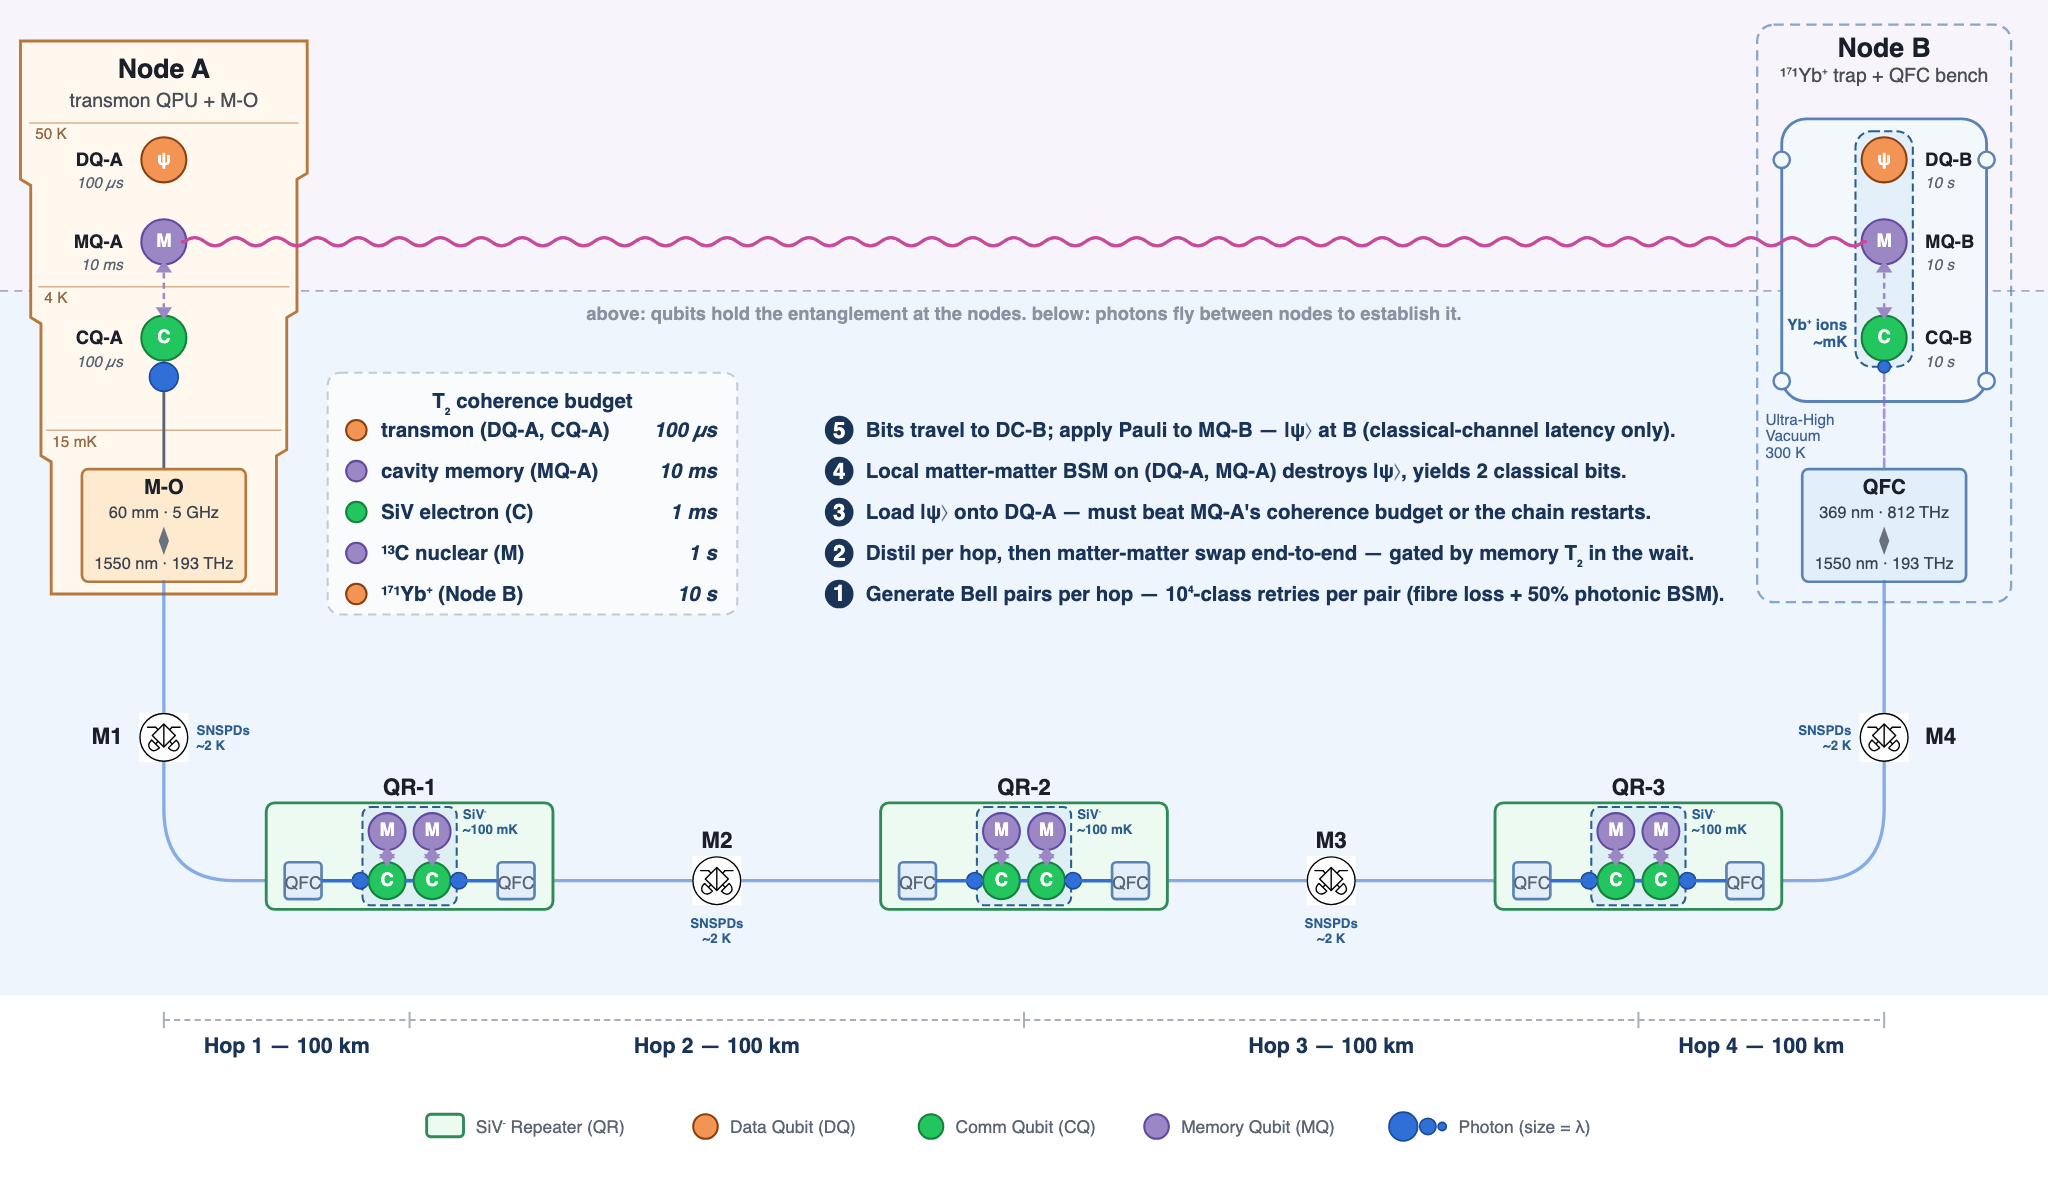
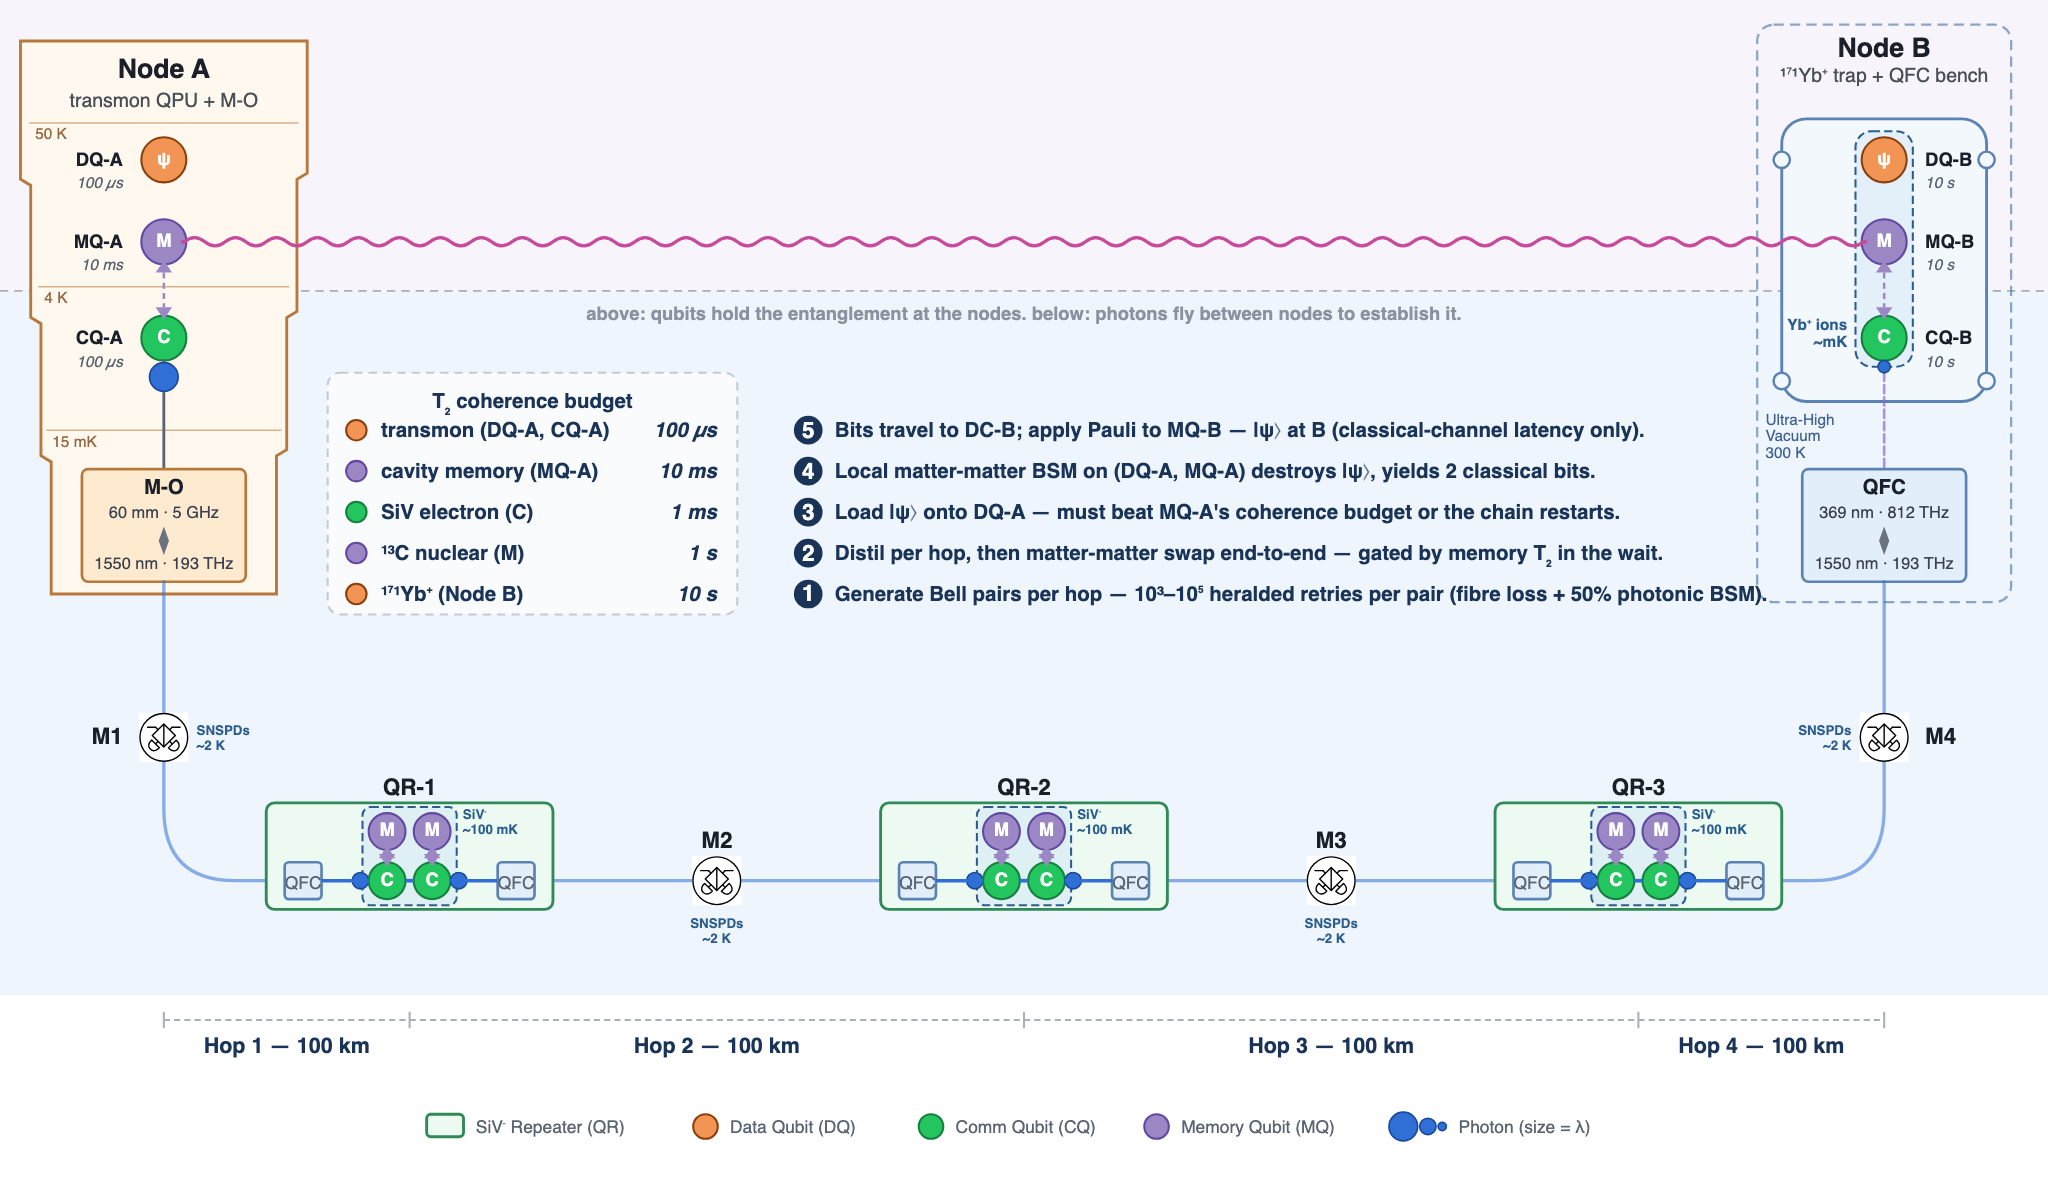
4hop-topology: step 1 reads '10³–10⁵' instead of '10⁴-class'
The loss-budget callout walks through the arithmetic and finds the
budget gives ~10³ attempts per pair (conservative) while Knaut 2024
measured ~10⁵ in the field. The single '10⁴-class' number on the
figure split the difference without falling out of either bound
directly.

Use the range that matches the callout's analysis. Slightly longer
text but layout still clears panel right edge (x=360) and Node B's
QFC label (x=895) with room to spare.

Changed region(s): [[0.375, 0.3426, 0.875, 0.5295]]

diff --git a/scripts/diagrams/topology_4hop.py b/scripts/diagrams/topology_4hop.py
@@ -552,7 +552,7 @@ def _protocol_steps(cv: Canvas) -> None:
     # Numbers are left-aligned in a single column; the whole block (badge
     # column + longest line of text) is horizontally centred on the figure.
     captions = [
-        "Generate Bell pairs per hop — 10⁴-class retries per pair (fibre loss + 50% photonic BSM).",
+        "Generate Bell pairs per hop — 10³–10⁵ heralded retries per pair (fibre loss + 50% photonic BSM).",
         "Distil per hop, then matter-matter swap end-to-end — gated by memory T₂ in the wait.",
         "Load |ψ⟩ onto DQ-A — must beat MQ-A's coherence budget or the chain restarts.",
         "Local matter-matter BSM on (DQ-A, MQ-A) destroys |ψ⟩, yields 2 classical bits.",
